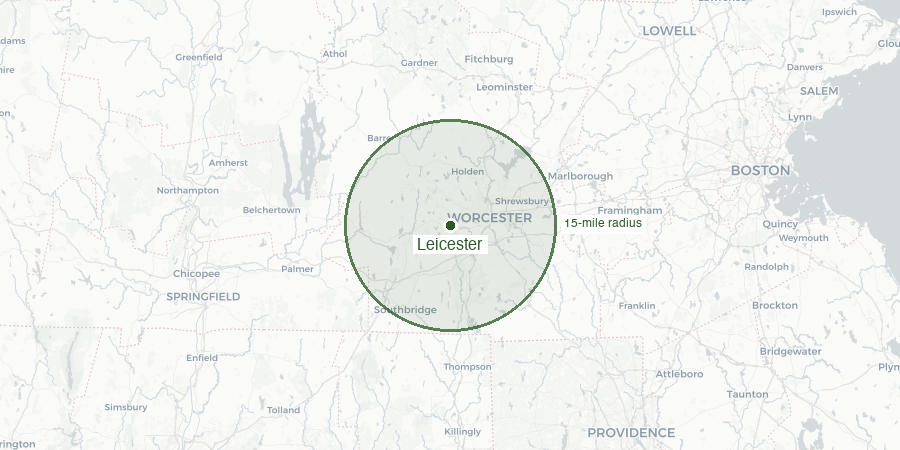
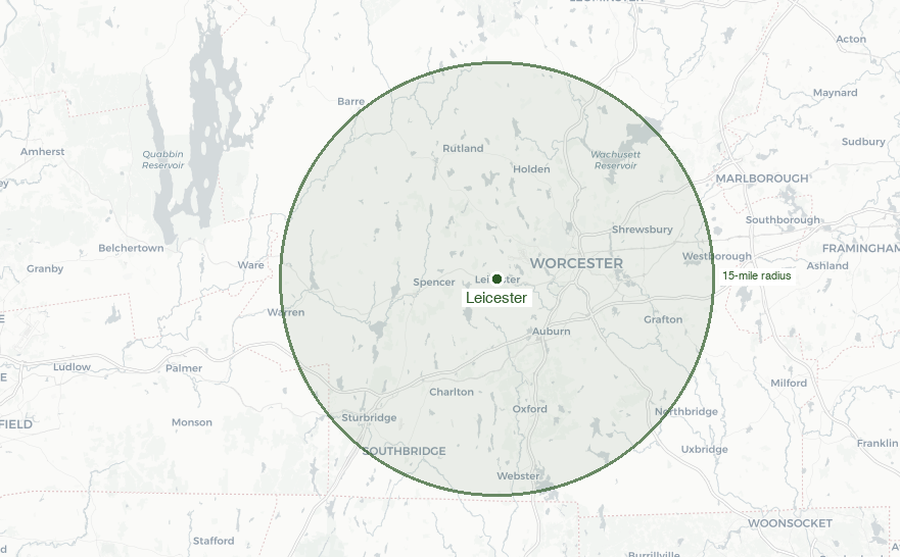
Desktop UX fixes: remove slider arrows, tighter map zoom, image framing improvements

diff --git a/js/main.js b/js/main.js
@@ -142,27 +142,29 @@ function initSlider(slider) {
     }
   });
 
-  // Arrow buttons (injected into each slider)
-  const arrowLeft = document.createElement('button');
-  arrowLeft.className = 'ba-arrow ba-arrow--left';
-  arrowLeft.innerHTML = '&#9664;';
-  arrowLeft.setAttribute('aria-label', 'Show before');
-  arrowLeft.addEventListener('click', function(e) {
-    e.stopPropagation();
-    setPosition(Math.max(5, currentPercent - 25));
-  });
+  // Arrow buttons — mobile only (desktop uses drag/click, arrows add clutter)
+  if (window.innerWidth <= 768) {
+    const arrowLeft = document.createElement('button');
+    arrowLeft.className = 'ba-arrow ba-arrow--left';
+    arrowLeft.innerHTML = '&#9664;';
+    arrowLeft.setAttribute('aria-label', 'Show before');
+    arrowLeft.addEventListener('click', function(e) {
+      e.stopPropagation();
+      setPosition(Math.max(5, currentPercent - 25));
+    });
 
-  const arrowRight = document.createElement('button');
-  arrowRight.className = 'ba-arrow ba-arrow--right';
-  arrowRight.innerHTML = '&#9654;';
-  arrowRight.setAttribute('aria-label', 'Show after');
-  arrowRight.addEventListener('click', function(e) {
-    e.stopPropagation();
-    setPosition(Math.min(95, currentPercent + 25));
-  });
+    const arrowRight = document.createElement('button');
+    arrowRight.className = 'ba-arrow ba-arrow--right';
+    arrowRight.innerHTML = '&#9654;';
+    arrowRight.setAttribute('aria-label', 'Show after');
+    arrowRight.addEventListener('click', function(e) {
+      e.stopPropagation();
+      setPosition(Math.min(95, currentPercent + 25));
+    });
 
-  slider.appendChild(arrowLeft);
-  slider.appendChild(arrowRight);
+    slider.appendChild(arrowLeft);
+    slider.appendChild(arrowRight);
+  }
 }
 
 /* --- Timeline Arrow Navigation --- */

diff --git a/css/styles.css b/css/styles.css
@@ -653,6 +653,7 @@ h3 { font-size: var(--font-size-xl); }
   width: 100%;
   height: 500px;
   object-fit: cover;
+  object-position: center 30%; /* Fairy house: focus on the main carving, not the sky */
 }
 
 .spotlight__content h2 {
@@ -1302,7 +1303,7 @@ body.emergency-active .hero {
   /* --- About: TEXT FIRST on mobile (critical UX fix) --- */
   .about__image { order: 1; }  /* push image BELOW text on mobile */
   .about__content { order: 0; } /* text comes first */
-  .about__image img { height: 220px; object-position: center 25%; } /* Show boom arm + worker in shorter mobile frame */
+  .about__image img { height: 260px; object-position: center 20%; } /* Show boom arm + truck in shorter mobile frame */
   .about__points { gap: 8px; }
   .about__point { padding: 12px 0; }
 
@@ -1328,7 +1329,7 @@ body.emergency-active .hero {
   .timeline-item img { height: 170px; }
 
   /* --- Stump spotlight: compact --- */
-  .spotlight__image img { height: 240px; }
+  .spotlight__image img { height: 320px; object-position: center 25%; }
   .spotlight--featured { gap: 20px; }
 
   /* --- Reviews: tighter cards --- */
